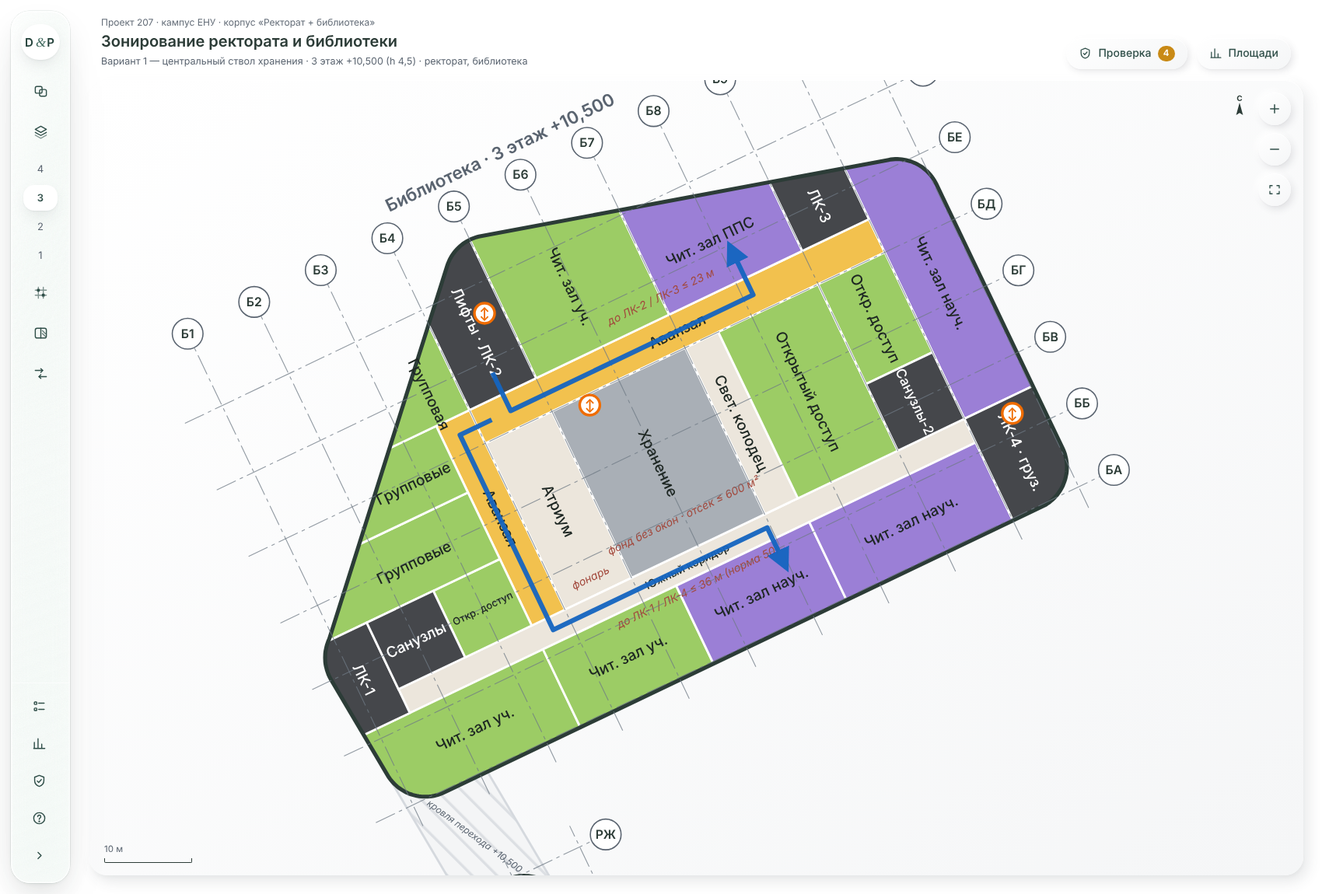
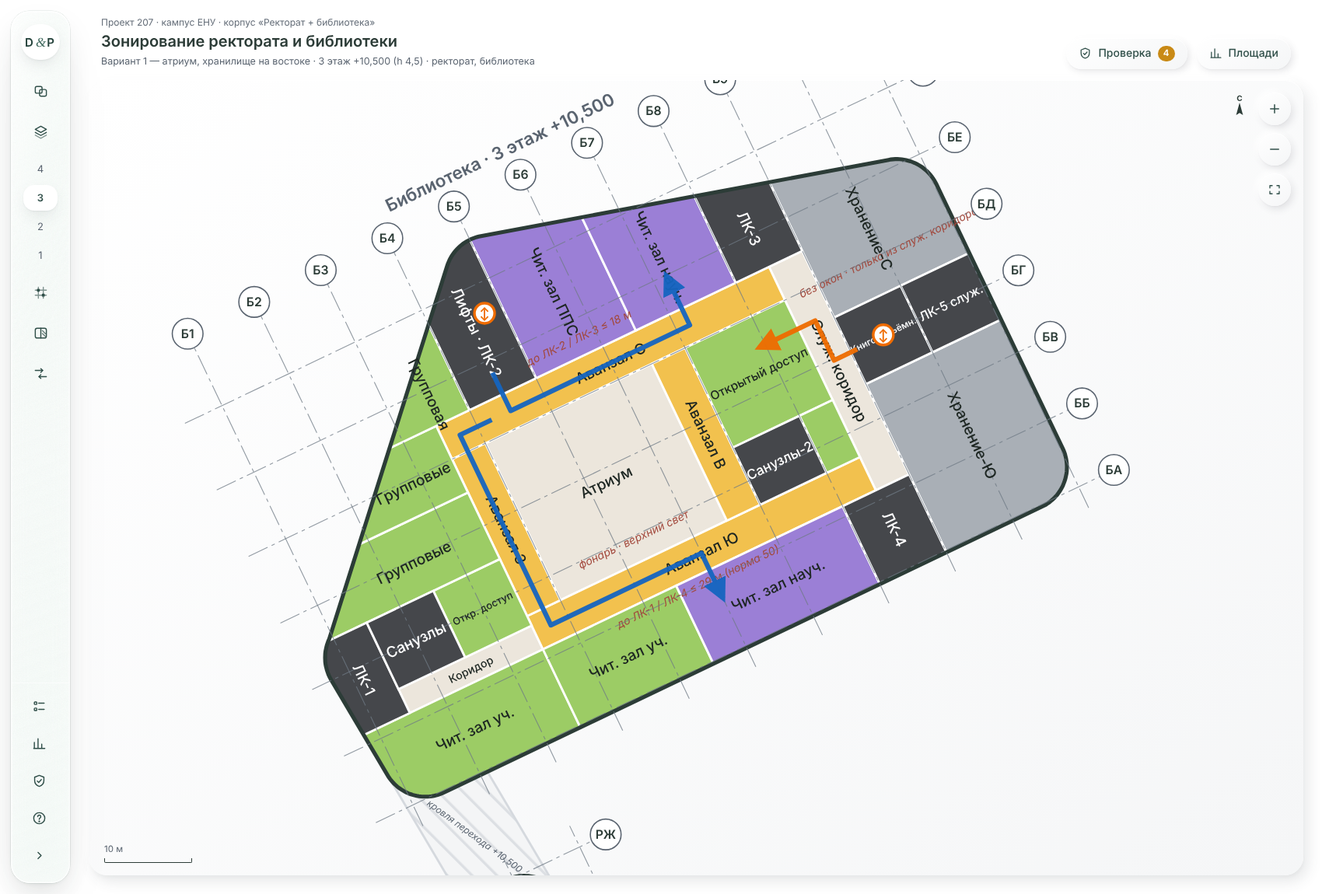
Библиотека: атриум на 4 этажа в центре, хранилище на востоке со служебным коридором, открытый доступ между ними; экспликация площадей
Claude-Session: https://claude.ai/code/session_01PBUMDRyqQNphWJTD6zJTqL

Changed region(s): [[0.3429, 0.1826, 0.8106, 0.7304], [0.1247, 0.0609, 0.4053, 0.0913], [0.3429, 0.7304, 0.3741, 0.7609]]

diff --git a/ADM_LIB_Zoning.html b/ADM_LIB_Zoning.html
@@ -385,11 +385,12 @@ const RG=R;   // то же, запись между осями: RG("LIB","2","Б
 // ════════════ РАЗДЕЛ 3. ЗОНИРОВАНИЕ — ЗАПОЛНЯЕТ ИСПОЛНИТЕЛЬ ════════════
 // Исполнитель: Claude Code, 2026-10-29. Заполнена только БИБЛИОТЕКА (зона ответственности по заданию архитектора);
 // ректорат и переход — позже, их этажи в проверке дают предупреждение «не заполнен», это ожидаемо.
-// Схема библиотеки (пособие к СНиП 2.08.02-89 п. 3.114) — центральная с асимметрией: закрытое книгохранилище — ствол в середине плана
-// на всех этажах (п. 3.110 «серединные объёмы»; без окон — фонд защищён от солнца), читательские помещения — по периметру на С, ВСВ, ЮЮВ (п. 3.116);
+// Схема библиотеки (пособие к СНиП 2.08.02-89 п. 3.114) — асимметричная: в центре атриум на 4 этажа с верхним светом и парадной лестницей,
+// вокруг него аванзалы, за ними читальные залы у фасадов С и ЮЮВ (п. 3.116); закрытое хранилище — восточный край здания без окон (фонд без солнца),
+// доступ только из служебного коридора; между атриумом и хранилищем — фонд открытого доступа (п. 3.113);
 // 1 этаж — доконтрольная зона у главного входа (ЗСЗ-фасад) и производственная зона со служебным входом (ЮВ угол), п. 3.108–3.109.
 // Ссылки: «п. 3.xxx» — пособие к СНиП 2.08.02-89; «СН РК» — СН РК 3.02-07-2014; «СН РК 3.02-08» — СН РК 3.02-08-2013; «4.2.1.69» — фрагмент норм от архитектора.
-const VN={V1:"Вариант 1 — центральный ствол хранения",V2:"Вариант 2"};
+const VN={V1:"Вариант 1 — атриум, хранилище на востоке",V2:"Вариант 2"};
 const COMMON=[];   // блоки, одинаковые в обоих вариантах (ядра, лестницы, санузлы, переход)
 const V1=[];       // вариант 1 — основное предложение
 const V2=[];       // вариант 2 — альтернатива (не заполнен)
@@ -404,135 +405,141 @@ const L=(f,u0,u1,v0,v1,z,k,s,n,w,o)=>V1.push(R("LIB",f,u0,u1,v0,v1,z,k,s,n,w,o))
 const ORI={ori:["С","СВ","В","ЮВ"]};
 const LF=["1","2","3","4"];
 
-// ───────── ЯДРА — на всех этажах ─────────
+// ───────── ЯДРА, АТРИУМ, СЛУЖЕБНЫЙ КОРИДОР — на всех этажах ─────────
 for(const f of LF){
   COMMON.push(R("LIB",f,-3,4.2,9.6,21,"core","st1","ЛК-1","Лестничная клетка Н1 (запад) с воздушной зоной",
-    "Эвакуационная лестница западного крыла у прямого ЗЮЗ-фасада: окна и выход наружу на 1 этаже. Замыкает южный коридор с запада: от двери самого удалённого помещения до ЛК ≤ 36 м при норме 50 м (табл. 9, графа 3 для вузов, II степень)."));
+    "Эвакуационная ЛК западного крыла у ЗЮЗ-фасада, выход наружу на 1 этаже. Замыкает южный аванзал с запада: от любой двери ≤ 29 м до ЛК при норме 50 м (табл. 9, графа 3 для вузов, II степень)."));
   COMMON.push(R("LIB",f,4.2,12.6,12.6,21,"core","wc1","Санузлы","Санузлы (М, Ж, МГН, ПУИ, шлюз), тех. помещение и кроссовая",
-    "Блок санузлов ≈ 8,4 × 8,4 на каждом этаже рядом с ЛК-1 (правило 2); на 1 этаже — в доконтрольной зоне у вестибюля и лекционного зала, выше — в читательской зоне (п. 3.108 — санузлы внутри зоны)."));
+    "Блок санузлов ≈ 8,4 × 8,4 на каждом этаже у ЛК-1 (правило 2); на 1 этаже — в доконтрольной зоне, выше — в читательской (п. 3.108)."));
   COMMON.push(R("LIB",f,25.2,33.6,37.8,56,"core","lift","Лифты · ЛК-2","Главный лифтовой узел читателей и ЛК-2 (Н1) у северного фасада",
-    "Один шаг осей Б4–Б5 на всю глубину от аванзала до фасада (правило 3): у фасада ЛК-2 (лестнице Н1 нужны окна), за ней шахты, перед ними карман ожидания в стороне от потока аванзала. На 1 этаже — сразу за пунктом контроля, читатели поднимаются в читальные залы (п. 3.108)."));
-  COMMON.push(R("LIB",f,67.2,75.6,37.8,56,"core","st3","ЛК-3","Лестничная клетка Н1 (северо-восток)",
-    "Эвакуационная ЛК у восточного конца северного фасада, выход наружу на 1 этаже. С ЛК-2 делит аванзал: от любой двери ≤ 23 м до ЛК при норме 50 м; тупик за ЛК-3 — 4 м при норме 25 м (табл. 9)."));
-  COMMON.push(R("LIB",f,75.6,86,-1,12.6,"core","st4","ЛК-4 · груз.","Лестничная клетка Н1 и грузовой лифт производственной зоны (юго-восток)",
-    "Служебная вертикаль у служебного входа: связывает производственные помещения 1–2 этажей (п. 3.109 — не выше 3 этажа) и замыкает южный коридор с востока (≤ 36 м от любой двери при норме 50 м, табл. 9); выход наружу на 1 этаже."));
-  COMMON.push(R("LIB",f,67.2,75.6,12.6,21,"core","wc2","Санузлы-2","Санузлы восточного крыла (на 1 этаже — для персонала)",
-    "Второй блок санузлов: здание ≈ 86 м длиной, от восточных залов до блока у ЛК-1 было бы > 60 м. На 1 этаже — персонал производственной зоны (СН РК 3.02-08)."));
+    "Один шаг осей Б4–Б5 на всю глубину от аванзала до фасада (правило 3): у фасада ЛК-2 (лестнице Н1 нужны окна), за ней шахты, перед ними карман ожидания. На 1 этаже — за контролем."));
+  COMMON.push(R("LIB",f,58.8,67.2,37.8,56,"core","st3","ЛК-3","Лестничная клетка Н1 (север, ось Б8)",
+    "В торце северного аванзала, у границы с хранилищем: с ЛК-2 делит аванзал, от любой двери ≤ 18 м до ЛК (норма 50 м, табл. 9); выход наружу на 1 этаже; в ЛК выходит и служебный коридор."));
+  COMMON.push(R("LIB",f,58.8,67.2,-1,9.6,"core","st4","ЛК-4","Лестничная клетка Н1 (юг, ось Б8)",
+    "В торце южного аванзала: с ЛК-1 делит его, от любой двери ≤ 29 м до ЛК (норма 50 м, табл. 9); выход наружу на 1 этаже; в ЛК выходит и служебный коридор."));
+  COMMON.push(R("LIB",f,50.4,58.8,13.8,21,"core","wc2","Санузлы-2","Санузлы восточного крыла",
+    "Второй блок санузлов у аванзала, в глубине плана (без окон допустимо): от восточных залов до блока у ЛК-1 было бы > 50 м."));
+  COMMON.push(R("LIB",f,25.2,46.2,13.8,33.6,"cor","atrium",f==="1"?"Атриум · лестница":"Атриум","Атриум на 4 этажа с верхним светом и парадной лестницей",
+    "Центр плана (≈ 21 × 19,8 м): фонарь на кровле, парадная лестница видна из вестибюля через стеклянную стену, вход — за контролем (п. 3.108). Вокруг — аванзалы: световой карман для всех коридоров (п. 4.3.3.1). На 2–4 этажах отделён противопожарным остеклением — этаж 3 836 ≤ 4 000 м² (табл. 1, II степень); противодымная вентиляция; лестница не эвакуационная."));
+  COMMON.push(R("LIB",f,63,67.2,9.6,37.8,"cor","svcor","Служ. коридор","Служебный коридор хранилища (только персонал)",
+    "Единственный доступ в хранилище — по заданию архитектора. Связывает отсеки хранения, книгоподъёмники, пункты выдачи в открытом доступе и абонементе, ЛК-3 и ЛК-4 (эвакуация персонала)."));
+  COMMON.push(R("LIB",f,67.2,75.6,21,29.4,"core","blift","Книгоподъёмн.","Книгоподъёмники и грузовой лифт хранилища",
+    "Вертикаль книг между отсеками хранения всех этажей, приёмкой (1 этаж) и служебным коридором — к пунктам выдачи (правило 3, п. 3.113)."));
+  COMMON.push(R("LIB",f,75.6,86,21,29.4,"core","st5","ЛК-5 служ.","Служебная лестничная клетка Н1 хранилища",
+    "Второй эвакуационный выход для каждого отсека хранения (СН РК п. 5.3.1.29) и служебная вертикаль; окна и выход наружу на ВСВ-фасаде."));
+  COMMON.push(R("LIB",f,67.2,86,29.4,56,"z7",f==="4"?"rareS":"storeN",f==="1"?"Хранение-1 (2 яр.)":f==="4"?"Хран. редких":"Хранение-С",
+    f==="1"?"Книгохранилище, северный отсек (стеллажи в два яруса)":f==="4"?"Хранилище редких и уникальных изданий":"Книгохранилище, северный отсек",
+    f==="4"?"Восточный край, без окон — фонд без солнца (СН РК п. 5.4.6.5); отделено противопожарными стенами (п. 5.3.1.30). Выдача — через служебный коридор в зал редких книг."
+      :"Восточный край здания без окон — фонд без солнца (СН РК п. 5.4.6.5); доступ только из служебного коридора. Отсек ≈ 250 м² ≤ 600 м² (п. 4.2.1.69); выходы — в служебный коридор и ЛК-5 (п. 5.3.1.29)"+(f==="1"?"; высота 6 м — стеллажи в два яруса (п. 3.111).":"."),
+    {p:f==="4"?"av":"store",nl:true}));
 }
 
-// ───────── АТРИУМ с парадной лестницей — на всех этажах, верхний свет ─────────
-for(const f of LF){
-  COMMON.push(R("LIB",f,25.2,33.6,12.6,33.6,"cor","atrium",f==="1"?"Атриум · лестница":"Атриум","Атриум с парадной лестницей на 4 этажа и верхним светом",
-    "Вместо части хранения-1: фонарь на кровле, открытая лестница видна из вестибюля через стеклянную стену, вход — за контролем (п. 3.108). Вдоль атриума идут оба аванзала и южный коридор — световой карман (п. 4.3.3.1). Открытая лестница не эвакуационная. На 2–4 этажах атриум отделён от этажей противопожарным остеклением и дверями — каждый этаж 3 836 м² ≤ 4 000 м² между противопожарными стенами (табл. 1, II степень, 3–5 этажей); противодымная вентиляция атриума."));
-}
-
-// ───────── 1 ЭТАЖ (h 6,0) — доконтрольная, контроль, производственная зоны ─────────
+// ───────── 1 ЭТАЖ (h 6,0) — доконтрольная зона, контроль, производственная зона ─────────
 L("1",-3,21,29.4,56,"z1","vest","Вестибюль","Вестибюль: справочное бюро, запись читателей, книжный киоск, выставки, бюро репрографии",
   "Главный вход — середина ЗСЗ-фасада (по заданию). Доконтрольная зона: справочное бюро, запись, киоск, выставки, бюро технического обслуживания — п. 3.108.");
 L("1",21,25.2,21,29.4,"z1","vest","","Вестибюль: справочное бюро, запись читателей, книжный киоск, выставки, бюро репрографии",
-  "Часть вестибюля у стеклянной стены атриума: от входа видна парадная лестница; проход к гардеробу и холлу абонементов (п. 3.108).");
+  "Часть вестибюля у стеклянной стены атриума: от входа видна парадная лестница (п. 3.108).");
 L("1",21,25.2,37.8,56,"z1","vest","","Вестибюль: справочное бюро, запись читателей, книжный киоск, выставки, бюро репрографии",
   "Часть вестибюля у лифтового узла (лифты открываются только за контролем).");
 L("1",21,25.2,29.4,37.8,"z1","ctrl","Контроль","Пункт контроля — линия турникетов в вестибюле",
-  "Контроль перенесён в вестибюль на ось Б4−4,2: за ним сразу атриум с парадной лестницей и холл к лифтам, каталогам — зона за контролем (п. 3.108).");
+  "За контролем сразу атриум с парадной лестницей, холл к лифтам и каталогам — зона за контролем (п. 3.108).");
 L("1",-3,12.6,21,29.4,"z1","cloak","Гардероб","Гардероб читателей",
-  "У входа, до контроля; выше по тексту п. 3.108 — бытовые помещения читателей в доконтрольной части. Не входит в табл. 26.");
+  "У входа, до контроля (п. 3.108). Не входит в табл. 26.");
 L("1",12.6,21,12.6,21,"z1","cloak","Гардероб","Гардероб читателей",
-  "Вторая часть гардероба — между вестибюлем и лекционным залом, обслуживает оба потока.");
+  "Вторая часть гардероба — между вестибюлем и лекционным залом.");
 L("1",12.6,21,21,29.4,"z1","bags","Портфели","Камера хранения портфелей",
-  "Сдача портфелей до контроля — между гардеробом и вестибюлем (табл. 26: 0,05 м² на читательское место).",{p:"serv"});
+  "Сдача портфелей до контроля (табл. 26: 0,05 м² на читательское место).",{p:"serv"});
 L("1",21,25.2,-1,21,"cor","hall0","Холл","Доконтрольный холл: абонементы и лекционный зал",
-  "Связывает вестибюль с абонементами и лекционным залом без прохода через контроль (п. 3.108).");
+  "Связывает вестибюль с абонементами и лекционным залом без прохода через контроль (п. 3.108); стеклянная стена в атриум.");
 L("1",-3,21,-1,9.6,"z2","lect","Лекционный зал 150","Лекционный зал на 150 мест",
-  "П. 3.103: при контингенте ≥ 7 500 студентов — 150 мест; по п. 3.108 — в доконтрольной зоне, вход из фойе. Допускается без естественного света (СН РК п. 5.4.6.4); высота 1 этажа 6 м — амфитеатр.",{nl:true});
+  "П. 3.103: при контингенте ≥ 7 500 студентов — 150 мест; по п. 3.108 — в доконтрольной зоне. Допускается без естественного света (СН РК п. 5.4.6.4); выходы в фойе и наружу.",{nl:true});
 L("1",4.2,21,9.6,12.6,"cor","foyer","Фойе","Фойе лекционного зала: санузлы, ЛК-1",
-  "Кулуар перед лекционным залом: связывает доконтрольный холл с залом, санузлами и выходом ЛК-1 (правило 4); на верхних этажах на этой линии — южный коридор.");
-L("1",25.2,58.8,-1,12.6,"z1","abon","Абонементы","Абонементы учебной, научной и художественной литературы",
-  "Доконтрольная зона (п. 3.108); выдача на дом прямо из хранилища за стеной — короткий путь книги. Ведётся с холла, эвакуация и наружу через ЮЮВ-фасад.",{p:"abon"});
-L("1",25.2,75.6,33.6,37.8,"cor","gal","Холл за контролем","Холл за контролем — галерея к каталогам, лифтам и ЛК-3",
-  "Ось движения читателей за контролем от пункта контроля до ЛК-3; на верхних этажах на этом месте — аванзалы выдачи.");
-L("1",33.6,58.8,37.8,56,"z1","cat","Каталоги · СБО","Читательские каталоги, картотеки и справочно-библиографический отдел",
-  "За контролем, первым по ходу читателя (п. 3.108); северный фасад — ровный свет без солнца для работы с каталогами (п. 3.116).",{p:"cat"});
-L("1",58.8,67.2,37.8,56,"z5","mba","МБА","Межбиблиотечный абонемент",
-  "Рядом с каталогами и СБО — заказ изданий из других библиотек; в табл. 26 — 78 м² (6 м² на сотрудника, 1 сотрудник на 140 тыс. ед.).",{p:"serv"});
-L("1",33.6,50.4,12.6,33.6,"z7","store1","Хранение-1","Основное книгохранилище, отсек 1 (стеллажи в два яруса)",
-  "Середина плана без окон (п. 3.110) — фонд защищён от солнца; книгохранилище без естественного света (СН РК п. 5.4.6.5). Отсек 353 м² ≤ 600 м² (п. 4.2.1.69), от атриума — противопожарная стена; высота 6 м — двухъярусные стеллажи 4,0–4,2 м (п. 3.111), вместимость ≈ ×2.",{p:"store",nl:true});
-L("1",50.4,54.6,12.6,33.6,"cor","svc","Служ. проход","Служебный проход под световым колодцем, между отсеками хранения",
-  "Дно светового колодца: второй свет для холла за контролем (световой карман, п. 4.3.3.1). Противопожарный разрыв между отсеками ≤ 600 м²: у каждого отсека два выхода (СН РК п. 5.3.1.29), связь хранилища с производственной зоной и холлом за контролем.");
-L("1",54.6,67.2,12.6,33.6,"z7","store2","Хранение-2","Книгохранилище, отсек 2 (основное и компактное хранение)",
-  "Второй отсек ствола хранения, рядом с приёмкой и обработкой — поступления идут на полки без пересечения с читателями. Без окон (СН РК п. 5.4.6.5), ≤ 600 м² (п. 4.2.1.69).",{p:"store",nl:true});
-L("1",67.2,75.6,21,33.6,"z7","store2","Хранение-2","Книгохранилище, отсек 2 (основное и компактное хранение)",
-  "Часть отсека 2; вместе ≈ 370 м² ≤ 600 м² (п. 4.2.1.69). Без окон (СН РК п. 5.4.6.5).",{p:"store",nl:true});
-L("1",58.8,67.2,-1,12.6,"z5","proc","Обработка","Отделы технической и научной обработки литературы",
-  "Производственная зона (п. 3.109) у служебного входа и хранилища; ЮЮВ-фасад — дневной свет для рабочих мест.",{p:"serv"});
-L("1",67.2,75.6,-1,12.6,"z5","staffin","Служебный вход","Служебный вход, гардероб персонала, комната психологической разгрузки и приёма пищи",
+  "Кулуар перед лекционным залом: связывает доконтрольный холл с залом, санузлами и выходом ЛК-1.");
+L("1",25.2,58.8,-1,9.6,"z1","abon","Абонементы","Абонементы учебной, научной и художественной литературы",
+  "Доконтрольная зона (п. 3.108) вдоль ЮЮВ-фасада; со стороны атриума — стекло. Выдача — с восточного конца из служебного коридора; выход наружу.",{p:"abon"});
+L("1",25.2,63,9.6,13.8,"z1","abon","","Абонементы учебной, научной и художественной литературы",
+  "Часть абонемента с пунктом выдачи у служебного коридора (книги из хранилища без пересечения с читателями).",{p:"abon"});
+L("1",25.2,63,33.6,37.8,"cor","gal","Холл за контролем","Холл за контролем — галерея к каталогам, лифтам и ЛК-3",
+  "Ось движения читателей за контролем вдоль атриума от контроля до ЛК-3; на верхних этажах на этом месте — северный аванзал.");
+L("1",46.2,50.4,13.8,33.6,"cor","gal","","Галерея атриума за контролем",
+  "Проход вдоль восточной стороны атриума к справочно-библиографическому отделу.");
+L("1",33.6,46.2,37.8,56,"z1","cat","Каталоги","Читательские каталоги и картотеки",
+  "За контролем, первым по ходу читателя (п. 3.108); северный фасад — ровный свет без солнца (п. 3.116).",{p:"cat"});
+L("1",50.4,63,21,33.6,"z1","cat","СБО","Справочно-библиографический отдел",
+  "За контролем, у каталогов и атриума (п. 3.108); рядом служебный коридор — связь со служебным каталогом.",{p:"cat"});
+L("1",58.8,63,13.8,21,"z1","cat","","Справочно-библиографический отдел",
+  "Часть СБО.",{p:"cat"});
+L("1",46.2,58.8,37.8,56,"z5","mba","МБА","Межбиблиотечный абонемент",
+  "Рядом с каталогами и СБО (табл. 26: 6 м² на сотрудника); С-фасад.",{p:"serv"});
+L("1",67.2,75.6,-1,9.6,"z5","staffin","Служебный вход","Служебный вход, гардероб персонала, комната психологической разгрузки и приёма пищи",
   "Отдельный служебный вход с гардеробом (п. 3.104, 3.109); психологическая разгрузка — при гардеробе (СН РК 3.02-08 п. 5.4.4.23), приём пищи — п. 5.4.4.29.",{p:"serv"});
+L("1",67.2,75.6,9.6,21,"z7","svc1","Кладовые","Служебно-производственные: кладовые, обменный фонд",
+  "Без окон — кладовые допускаются без естественного света (СН РК п. 5.4.6.4); между приёмкой, хранилищем и служебным коридором (п. 3.109).",{p:"serv"});
+L("1",75.6,86,-1,6.3,"z5","proc","Обработка","Отделы технической и научной обработки литературы",
+  "Производственная зона (п. 3.109) в ЮВ углу; ЮЮВ и ВСВ фасады — дневной свет для рабочих мест.",{p:"serv"});
+L("1",75.6,86,6.3,12.6,"z5","acq","Комплектование","Отдел комплектования и служебный каталог",
+  "Производственная зона (п. 3.109) между приёмкой и обработкой; ВСВ-фасад — свет для рабочих мест.",{p:"serv"});
 L("1",75.6,86,12.6,21,"z7","exped","Приёмка","Экспедиция: приём и распаковка поступлений, обменный фонд",
-  "Разгрузка с ВСВ-фасада у грузового лифта ЛК-4: книги идут в обработку и хранение, не пересекая потоки читателей (п. 3.109).",{p:"serv"});
-L("1",75.6,86,21,56,"z5","acq","Комплектование","Отдел комплектования и служебный каталог",
-  "Производственная зона (п. 3.109), между приёмкой и хранилищем, служебная дверь в холл за контролем к каталогам; ВСВ и С фасады — свет для рабочих мест.",{p:"serv"});
+  "Разгрузка с ВСВ-фасада у книгоподъёмников и грузового лифта: книги идут в обработку и хранение, не пересекая читателей (п. 3.109).",{p:"serv"});
 
-// ───────── 2–4 ЭТАЖИ: общее для этажей ─────────
+// ───────── 2–4 ЭТАЖИ: общее ─────────
 for(const f of ["2","3","4"]){
-  L(f,4.2,75.6,9.6,12.6,"cor","scor","Южный коридор","Южный коридор: ЛК-1 — санузлы — ЛК-4",
-    "Непрерывный путь эвакуации между ЛК-1 и ЛК-4 вдоль южных читальных залов (правило 4).");
-  L(f,21,25.2,12.6,37.8,"z1","avan","Аванзал","Аванзал (западное крыло): выдача, вход в групповые",
-    "Аванзал выдачи у западной стены хранилища; из него входы в кабинеты групповых занятий (п. 3.106), связь южного коридора с северным аванзалом.",{p:"avan"});
-  L(f,25.2,75.6,33.6,37.8,"z1","avan","Аванзал","Аванзал: пункты выдачи из хранилища, выставки новых поступлений",
-    "Галерея от лифтов до ЛК-3 вдоль северной стены хранилища: выдача книг через книгоподъёмник, выставки новых поступлений (п. 3.108, 3.113).",{p:"avan"});
-  L(f,33.6,50.4,12.6,33.6,"z7","storeU","Хранение","Основное книгохранилище (отсек этажа)",
-    "Ствол хранения над отсеком 1: середина плана без окон — фонд защищён от солнца (п. 3.110, 3.116); без естественного света — СН РК п. 5.4.6.5. Отсек 353 м² ≤ 600 м² (п. 4.2.1.69), от атриума и колодца — противопожарные стены, двери противопожарные (п. 5.3.1.30).",{p:"store",nl:true});
-  L(f,50.4,54.6,12.6,33.6,"cor","well","Свет. колодец","Световой колодец (пустота) — второй свет для аванзала и южного коридора",
-    "Световой карман через ≤ 24 м (п. 4.3.3.1): атриум у Б4–Б5 и колодец у Б7 делят аванзал и южный коридор на отрезки ≤ 21 м. Фонарь с рассеивающим остеклением — прямого солнца на фонд нет.");
-  L(f,54.6,67.2,12.6,33.6,"z6","oa","Открытый доступ","Фонд открытого доступа при читальных залах",
-    "Стеллажи открытого доступа между хранилищем и залами, с пунктом выдачи (п. 3.113). Стеллажная зона без окон — книги без солнца (СН РК п. 5.4.6.5 — книгохранилища), чтение — в соседних залах у окон.",{p:"store",nl:true});
+  L(f,4.2,21,9.6,12.6,"cor","wcor","Коридор","Коридор к ЛК-1 и санузлам",
+    "Продолжение южного аванзала к ЛК-1; 17 м от атриума — в пределах 24 м до светового кармана (п. 4.3.3.1).");
+  L(f,21,63,9.6,13.8,"z1","avan","Аванзал Ю","Южный аванзал вдоль атриума",
+    "Аванзал вдоль атриума, за ним южные читальные залы (по заданию); верхний свет атриума — световой карман (п. 4.3.3.1); путь эвакуации ЛК-1 — ЛК-4.",{p:"avan"});
+  L(f,21,63,33.6,37.8,"z1","avan","Аванзал С","Северный аванзал: выставки новых поступлений",
+    "Аванзал вдоль атриума, за ним северные читальные залы (п. 3.108); путь эвакуации ЛК-2 — ЛК-3.",{p:"avan"});
+  L(f,21,25.2,13.8,33.6,"z1","avan","Аванзал З","Западный аванзал: вход в групповые",
+    "Аванзал вдоль атриума; из него входы в кабинеты групповых занятий (п. 3.106).",{p:"avan"});
+  L(f,46.2,50.4,13.8,33.6,"z1","avan","Аванзал В","Восточный аванзал: выдача из открытого доступа",
+    "Аванзал между атриумом и фондом открытого доступа, пункт выдачи (п. 3.113).",{p:"avan"});
+  L(f,50.4,63,21,33.6,"z6","oa","Открытый доступ","Фонд открытого доступа",
+    "Между атриумом и хранилищем (по заданию), с пунктом выдачи (п. 3.113); стеллажная зона в глубине плана, свет атриума рассеянный — книги без прямого солнца (СН РК п. 5.4.6.5).",{p:"store",nl:true});
+  L(f,58.8,63,13.8,21,"z6","oa","","Фонд открытого доступа",
+    "Часть фонда открытого доступа у служебного коридора.",{p:"store",nl:true});
   L(f,12.6,21,12.6,21,"z6","oa","Откр. доступ","Фонд открытого доступа учебной литературы",
-    "Стеллажи открытого доступа у аванзала и групповых (п. 3.113); без окон — СН РК п. 5.4.6.5.",{p:"store",nl:true});
+    "Стеллажи у аванзала и групповых (п. 3.113); без окон — СН РК п. 5.4.6.5.",{p:"store",nl:true});
 }
+for(const f of ["3","4"])
+  L(f,67.2,86,-1,21,"z7","storeS","Хранение-Ю","Книгохранилище, южный отсек",
+    "Восточный край без окон — фонд без солнца (СН РК п. 5.4.6.5); доступ только из служебного коридора. Отсек ≈ 357 м² ≤ 600 м² (п. 4.2.1.69); выходы — в служебный коридор и ЛК-5 (п. 5.3.1.29).",{p:"store",nl:true});
 
-// ───────── 2 ЭТАЖ: учебное отделение (п. 3.106 — ближе к входу), лаборатории ─────────
+// ───────── 2 ЭТАЖ: учебное отделение, лаборатории ─────────
 L("2",-3,12.6,-1,9.6,"cor","brhall","Холл перехода","Холл примыкания надземного перехода (резерв)",
-  "Переход из ректората приходит в ЮЗ угол на 2 этаже — здесь холл, не помещение (правило 6). Связь с ректоратом проектируется позже.");
-L("2",12.6,29.4,-1,9.6,"z6","readU","Чит. зал уч.","Читальный зал учебного отделения (≈ 60 мест)",
-  "ЮЮВ-фасад (допустимо: ЮВ, п. 3.116); ≤ 100 мест (п. 3.112). Учебное отделение — на нижнем читательском этаже, ближе к входу (п. 3.106).",{p:"readU",...ORI});
-L("2",29.4,46.2,-1,9.6,"z6","readU","Чит. зал уч.","Читальный зал учебного отделения (≈ 60 мест)",
-  "ЮЮВ-фасад (п. 3.116), ≤ 100 мест (п. 3.112); выдача — из хранилища через аванзал.",{p:"readU",...ORI});
-L("2",46.2,58.8,-1,9.6,"z6","readU","Чит. зал уч.","Читальный зал учебного отделения (≈ 45 мест)",
+  "Переход из ректората приходит в ЮЗ угол на 2 этаже — здесь холл (правило 6). Связь с ректоратом — позже.");
+L("2",12.6,29.4,-1,9.6,"z6","readU","Чит. зал уч.","Читальный зал учебного отделения",
+  "ЮЮВ-фасад (ЮВ, п. 3.116), ≤ 100 мест (п. 3.112); вход из южного аванзала; учебное отделение ближе к входу (п. 3.106).",{p:"readU",...ORI});
+L("2",29.4,46.2,-1,9.6,"z6","readU","Чит. зал уч.","Читальный зал учебного отделения",
+  "ЮЮВ-фасад (п. 3.116), ≤ 100 мест (п. 3.112).",{p:"readU",...ORI});
+L("2",46.2,58.8,-1,9.6,"z6","readU","Чит. зал уч.","Читальный зал учебного отделения",
   "ЮЮВ-фасад (п. 3.116), рядом фонд открытого доступа (п. 3.113).",{p:"readU",...ORI});
-L("2",58.8,75.6,-1,9.6,"z5","lab","Репрография","Лаборатории микрофотокопирования, репродуцирования, множительная",
-  "Производственная зона 2 этажа над службами 1 этажа, при грузовом лифте ЛК-4; не выше 3 этажа (п. 3.109).",{p:"serv"});
-L("2",75.6,86,12.6,56,"z5","lab","Реставрация","Лаборатория гигиены и реставрации книг, переплётно-брошюровочная",
-  "Производственная зона при ЛК-4 и хранилище (п. 3.109, 3.110); ВСВ-фасад — ровный свет для реставрации.",{p:"serv"});
-L("2",67.2,75.6,21,33.6,"z7","svc2","Служ.-произв.","Служебно-производственные помещения: кладовые, обменный фонд",
-  "Без окон — кладовые (СН РК п. 5.4.6.4), между лабораториями и хранилищем; не выше 3 этажа (п. 3.109).",{p:"serv"});
-L("2",33.6,50.4,37.8,56,"z6","readU","Чит. зал уч.","Читальный зал учебного отделения (≈ 90 мест)",
-  "Северный фасад — лучшая ориентация (п. 3.116); ≤ 100 мест (п. 3.112); вход из аванзала.",{p:"readU",...ORI});
-L("2",50.4,67.2,37.8,56,"z6","readU","Чит. зал уч.","Читальный зал учебного отделения (≈ 65 мест)",
+L("2",33.6,46.2,37.8,56,"z6","readU","Чит. зал уч.","Читальный зал учебного отделения",
+  "Северный фасад (п. 3.116), ≤ 100 мест (п. 3.112); вход из северного аванзала.",{p:"readU",...ORI});
+L("2",46.2,58.8,37.8,56,"z6","readU","Чит. зал уч.","Читальный зал учебного отделения",
   "С-фасад (п. 3.116), ≤ 100 мест (п. 3.112).",{p:"readU",...ORI});
-L("2",-3,21,21,29.4,"z6","group","Групповые","Кабинеты групповых занятий (2 каб. на группу / полгруппы)",
-  "Входы из аванзала (п. 3.106); ЗСЗ-фасад даёт свет — для групповых ориентация не нормируется.",{p:"group"});
+L("2",67.2,75.6,-1,21,"z5","lab","Репрография","Лаборатории микрофотокопирования, репродуцирования, множительная",
+  "Над службами 1 этажа, при хранилище и служебном коридоре; не выше 3 этажа (п. 3.109, 3.110); ЮЮВ-фасад.",{p:"serv"});
+L("2",75.6,86,-1,21,"z5","lab","Реставрация","Лаборатория гигиены и реставрации книг, переплётно-брошюровочная",
+  "При хранилище и книгоподъёмниках (п. 3.109, 3.110); ВСВ-фасад — ровный свет.",{p:"serv"});
+L("2",-3,21,21,29.4,"z6","group","Групповые","Кабинеты групповых занятий",
+  "Входы из аванзала (п. 3.106); свет с ЗСЗ-фасада — для групповых ориентация не нормируется.",{p:"group"});
 L("2",-3,21,29.4,37.8,"z6","group","Групповые","Кабинеты групповых занятий",
   "Вход из аванзала (п. 3.106), свет с ЗСЗ-фасада.",{p:"group"});
 L("2",-3,25.2,37.8,56,"z6","group","Групповая","Кабинет групповых занятий",
-  "Угол у ЛК-2 и лифтов, свет с ЗСЗ-фасада; ≥ 36 м² (табл. 26).",{p:"group"});
+  "Угол у лифтов, свет с ЗСЗ-фасада; ≥ 36 м² (табл. 26).",{p:"group"});
 
 // ───────── 3 ЭТАЖ: учебное + научное отделение ─────────
-L("3",-3,21,-1,9.6,"z6","readU","Чит. зал уч.","Читальный зал учебного отделения (≈ 75 мест)",
+L("3",-3,21,-1,9.6,"z6","readU","Чит. зал уч.","Читальный зал учебного отделения",
   "ЮЮВ и ЗЮЗ фасады (ЮЮВ — допустимо, п. 3.116); ≤ 100 мест (п. 3.112).",{p:"readU",...ORI});
-L("3",21,37.8,-1,9.6,"z6","readU","Чит. зал уч.","Читальный зал учебного отделения (≈ 65 мест)",
+L("3",21,37.8,-1,9.6,"z6","readU","Чит. зал уч.","Читальный зал учебного отделения",
   "ЮЮВ-фасад (п. 3.116), ≤ 100 мест (п. 3.112).",{p:"readU",...ORI});
-L("3",37.8,54.6,-1,9.6,"z4","readS","Чит. зал науч.","Читальный зал научного отделения: старшие курсы (≈ 50 мест)",
-  "ЮЮВ-фасад (п. 3.116); научное отделение на 3–4 этажах, выдача отделена от учебного (п. 3.113).",{p:"readS",...ORI});
-L("3",54.6,75.6,-1,9.6,"z4","readS","Чит. зал науч.","Читальный зал научного отделения: дипломники (≈ 60 мест)",
-  "ЮЮВ-фасад (п. 3.116), ≤ 100 мест (п. 3.112).",{p:"readS",...ORI});
-L("3",75.6,86,12.6,56,"z4","readS","Чит. зал науч.","Читальный зал научного отделения (≈ 75 мест)",
-  "ВСВ-фасад — В/СВ, лучшая ориентация (п. 3.116); вход из аванзала, рядом фонд открытого доступа.",{p:"readS",...ORI});
-L("3",67.2,75.6,21,33.6,"z6","oa","Откр. доступ","Фонд открытого доступа научного отделения",
-  "Стеллажи открытого доступа между хранилищем и залом (п. 3.113); без окон — СН РК п. 5.4.6.5.",{p:"store",nl:true});
-L("3",33.6,50.4,37.8,56,"z6","readU","Чит. зал уч.","Читальный зал учебного отделения (≈ 90 мест)",
-  "Северный фасад (п. 3.116), ≤ 100 мест (п. 3.112).",{p:"readU",...ORI});
-L("3",50.4,67.2,37.8,56,"z4","readS","Чит. зал ППС","Читальный зал профессорско-преподавательского состава и аспирантов",
-  "С-фасад (п. 3.116); на одном этаже с учебным отделением — удобная связь ППС с учебным залом (п. 3.106).",{p:"readS",...ORI});
+L("3",37.8,58.8,-1,9.6,"z4","readS","Чит. зал науч.","Читальный зал научного отделения: старшие курсы и дипломники",
+  "ЮЮВ-фасад (п. 3.116); выдача научного отделения отделена от учебного (п. 3.113).",{p:"readS",...ORI});
+L("3",33.6,46.2,37.8,56,"z4","readS","Чит. зал ППС","Читальный зал профессорско-преподавательского состава и аспирантов",
+  "С-фасад (п. 3.116); на одном этаже с учебным отделением (п. 3.106).",{p:"readS",...ORI});
+L("3",46.2,58.8,37.8,56,"z4","readS","Чит. зал науч.","Зал справочно-реферативной литературы",
+  "С-фасад (п. 3.116), научное отделение (п. 3.106).",{p:"readS",...ORI});
 L("3",-3,21,21,29.4,"z6","group","Групповые","Кабинеты групповых занятий",
   "Входы из аванзала (п. 3.106), свет с ЗСЗ-фасада.",{p:"group"});
 L("3",-3,21,29.4,37.8,"z6","group","Групповые","Кабинеты групповых занятий",
@@ -541,24 +548,18 @@ L("3",-3,25.2,37.8,56,"z6","group","Групповая","Кабинет груп
   "Угол у лифтов, свет с ЗСЗ-фасада.",{p:"group"});
 
 // ───────── 4 ЭТАЖ: научное отделение, аудиовизуальные залы, редкие книги ─────────
-L("4",-3,21,-1,9.6,"z4","readS","Чит. зал науч.","Читальный зал по отраслям знаний (≈ 60 мест)",
-  "ЮЮВ-фасад (п. 3.116), ≤ 100 мест (п. 3.112); последний этаж — возможен верхний свет.",{p:"readS",...ORI});
-L("4",21,37.8,-1,9.6,"z4","readS","Чит. зал науч.","Читальный зал научного отделения (≈ 50 мест)",
+L("4",-3,21,-1,9.6,"z4","readS","Чит. зал науч.","Читальный зал по отраслям знаний",
   "ЮЮВ-фасад (п. 3.116), ≤ 100 мест (п. 3.112).",{p:"readS",...ORI});
-L("4",37.8,54.6,-1,9.6,"z4","readS","Индив. кабины","Индивидуальные читательские кабины",
+L("4",21,37.8,-1,9.6,"z4","readS","Чит. зал науч.","Читальный зал научного отделения",
+  "ЮЮВ-фасад (п. 3.116), ≤ 100 мест (п. 3.112).",{p:"readS",...ORI});
+L("4",37.8,58.8,-1,9.6,"z4","readS","Индив. кабины","Индивидуальные читательские кабины",
   "П. 3.106, 3.112 — при индивидуальных кабинах вместимость не ограничивается; ЮЮВ-фасад.",{p:"readS",...ORI});
-L("4",54.6,75.6,-1,9.6,"z4","readS","Чит. зал науч.","Читальный зал научного отделения (≈ 60 мест)",
-  "ЮЮВ-фасад (п. 3.116), ≤ 100 мест (п. 3.112).",{p:"readS",...ORI});
-L("4",75.6,86,12.6,56,"z4","rare","Редкие книги","Читальный зал редких книг и крупноформатных изданий",
-  "ВСВ-фасад (п. 3.116), рядом с хранением редких книг; табл. 26 — залы крупногабаритной литературы и редких книг.",{p:"av",...ORI});
-L("4",67.2,75.6,21,33.6,"z7","rareS","Хран. редких","Хранилище редких и уникальных изданий",
-  "Отдельно от других помещений противопожарными стенами (СН РК п. 5.3.1.30); без окон — фонд без солнца (СН РК п. 5.4.6.5), выдача прямо в зал редких книг.",{p:"av",nl:true});
-L("4",33.6,50.4,37.8,56,"z4","readS","Чит. зал науч.","Читальный зал научного отделения (≈ 75 мест)",
+L("4",33.6,46.2,37.8,56,"z4","readS","Чит. зал науч.","Читальный зал научного отделения и периодики",
   "Северный фасад (п. 3.116), ≤ 100 мест (п. 3.112).",{p:"readS",...ORI});
-L("4",50.4,67.2,37.8,56,"z4","readS","Чит. зал науч.","Читальный зал научного отделения (≈ 50 мест)",
-  "С-фасад (п. 3.116).",{p:"readS",...ORI});
+L("4",46.2,58.8,37.8,56,"z4","rare","Редкие книги","Читальный зал редких книг и крупноформатных изданий",
+  "С-фасад — ровный свет без солнца (п. 3.116); выдача из хранилища редких через служебный коридор и ЛК-3.",{p:"av",...ORI});
 L("4",-3,21,21,29.4,"z6","av","Аудиовизуал.","Залы аудиовизуального обслуживания (кабины, медиатека)",
-  "П. 3.106–3.107; ЗСЗ-фасад — допустим, т. к. экраны требуют затенения от низкого западного солнца шторами.",{p:"av"});
+  "П. 3.106–3.107; ЗСЗ-фасад — экраны с затенением от низкого западного солнца.",{p:"av"});
 L("4",-3,21,29.4,37.8,"z6","av","Аудиовизуал.","Залы аудиовизуального обслуживания",
   "П. 3.107; свет с ЗСЗ-фасада, вход из аванзала.",{p:"av"});
 L("4",-3,25.2,37.8,56,"z6","av","Аудиовизуал.","Зал аудиовизуального обслуживания",
@@ -570,29 +571,30 @@ ENTR.push(["LIB",71.4,-1.3,"Служебный вход","*"]);
 ENTR.push(["LIB",85.3,16.8,"Приёмка книг","*"]);
 ENTR.push(["LIB",-2.7,15,"Выход ЛК-1","*"]);
 ENTR.push(["LIB",31.2,55.8,"Выход ЛК-2","*"]);
-ENTR.push(["LIB",71.4,46,"Выход ЛК-3","*"]);
-ENTR.push(["LIB",79,-1.3,"Выход ЛК-4","*"]);
+ENTR.push(["LIB",63,48.2,"Выход ЛК-3","*"]);
+ENTR.push(["LIB",61,-1.3,"Выход ЛК-4","*"]);
+ENTR.push(["LIB",85.3,25.2,"Выход ЛК-5","*"]);
 ENTR.push(["LIB",12,-1,"Выход","*"]);
 ENTR.push(["LIB",44,-1,"Выход","*"]);
 ENTR.push(["LIB",2,1.2,"Переход (резерв)","*","2"]);
 FL.push({v:"*",f:"1",t:"stu",p:[["LIB",11,42],["LIB",17,36.5],["LIB",23,33.6],["LIB",27,35.7],["LIB",29.4,40.5]]});
-FL.push({v:"*",f:"1",t:"stu",p:[["LIB",23,33.6],["LIB",27,31],["LIB",29.4,22]]});
+FL.push({v:"*",f:"1",t:"stu",p:[["LIB",23,33.6],["LIB",27,31],["LIB",33,22]]});
+FL.push({v:"*",f:"1",t:"stu",p:[["LIB",27,35.7],["LIB",40,35.7],["LIB",40,42]]});
 FL.push({v:"*",f:"1",t:"stu",p:[["LIB",17,36.5],["LIB",19.5,28],["LIB",23,20],["LIB",23,6],["LIB",33,5.5]]});
 FL.push({v:"*",f:"1",t:"stu",p:[["LIB",23,6],["LIB",17,6]]});
-FL.push({v:"*",f:"1",t:"stu",p:[["LIB",31,35.7],["LIB",46,35.7],["LIB",46,42]]});
-FL.push({v:"*",f:"1",t:"staff",p:[["LIB",71.4,-3],["LIB",71.4,6],["LIB",64,6]]});
-FL.push({v:"*",f:"1",t:"cargo",p:[["LIB",89,16.8],["LIB",80,16.8],["LIB",80,27],["LIB",71,27]]});
-FL.push({v:"*",f:"1",t:"cargo",p:[["LIB",52.5,30],["LIB",52.5,16],["LIB",45,16]]});
+FL.push({v:"*",f:"1",t:"staff",p:[["LIB",71.4,-3],["LIB",71.4,6],["LIB",71.4,15]]});
+FL.push({v:"*",f:"1",t:"cargo",p:[["LIB",89,16.8],["LIB",80,16.8],["LIB",80,23],["LIB",72,23]]});
+FL.push({v:"*",f:"1",t:"cargo",p:[["LIB",68,25],["LIB",65.1,25],["LIB",65.1,11.7],["LIB",61,11.7]]});
 for(const f of ["2","3","4"]){
-  FL.push({v:"*",f,t:"stu",p:[["LIB",29.4,40.5],["LIB",29.4,35.7],["LIB",60,35.7],["LIB",60,42]]});
-  FL.push({v:"*",f,t:"stu",p:[["LIB",27,35.7],["LIB",23,35.7],["LIB",23,11.1],["LIB",50,11.1],["LIB",50,6]]});
+  FL.push({v:"*",f,t:"stu",p:[["LIB",29.4,40.5],["LIB",29.4,35.7],["LIB",52,35.7],["LIB",52,42]]});
+  FL.push({v:"*",f,t:"stu",p:[["LIB",27,35.7],["LIB",23,35.7],["LIB",23,11.7],["LIB",42,11.7],["LIB",42,6]]});
+  FL.push({v:"*",f,t:"cargo",p:[["LIB",68,25],["LIB",65.1,25],["LIB",65.1,30],["LIB",58,30]]});
 }
 FL.push({v:"*",f:"2",t:"stu",p:[["LIB",1,1],["LIB",6,6],["LIB",8,11.1],["LIB",21,11.1]]});
-MARKS.push(["LIB",31.5,47],["LIB",37.8,32.4],["LIB",80.8,10.8]);
+MARKS.push(["LIB",31.5,47],["LIB",71.4,25.2]);
 NOTES.push({f:"1",c:"LIB",u:12,v:31.5,t:"доконтрольная зона"});
-for(const f of LF)NOTES.push({f,c:"LIB",u:29.4,v:14.2,t:"фонарь"});
-for(const f of ["2","3","4"]){NOTES.push({f,c:"LIB",u:40,v:8,t:"до ЛК-1 / ЛК-4 ≤ 36 м (норма 50)"});NOTES.push({f,c:"LIB",u:50.4,v:39.6,t:"до ЛК-2 / ЛК-3 ≤ 23 м"});}
-for(const f of LF)NOTES.push({f,c:"LIB",u:42,v:16,t:"фонд без окон · отсек ≤ 600 м²"});
+for(const f of LF){NOTES.push({f,c:"LIB",u:35.7,v:16,t:"фонарь · верхний свет"});NOTES.push({f,c:"LIB",u:76,v:41,t:"без окон · только из служ. коридора"});}
+for(const f of ["2","3","4"]){NOTES.push({f,c:"LIB",u:40,v:8,t:"до ЛК-1 / ЛК-4 ≤ 29 м (норма 50)"});NOTES.push({f,c:"LIB",u:40,v:39.4,t:"до ЛК-2 / ЛК-3 ≤ 18 м"});}
 
 // ════════════ РАЗДЕЛ 4. ДВИЖОК — НЕ МЕНЯТЬ ════════════
 const VAR={V1,V2};
